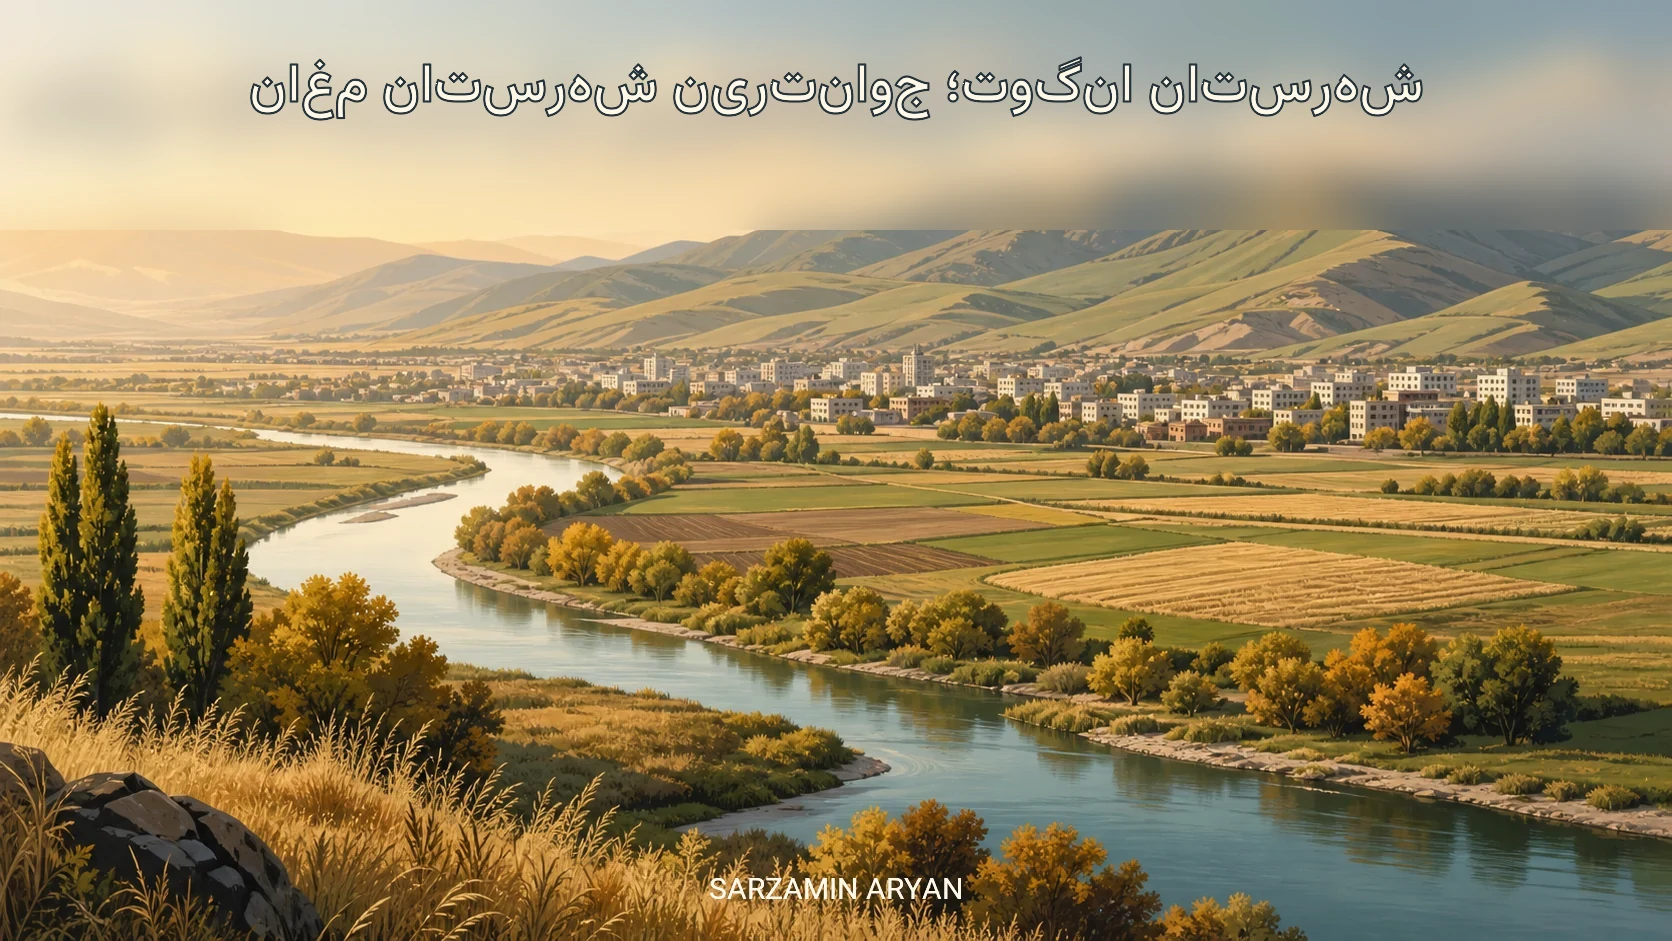
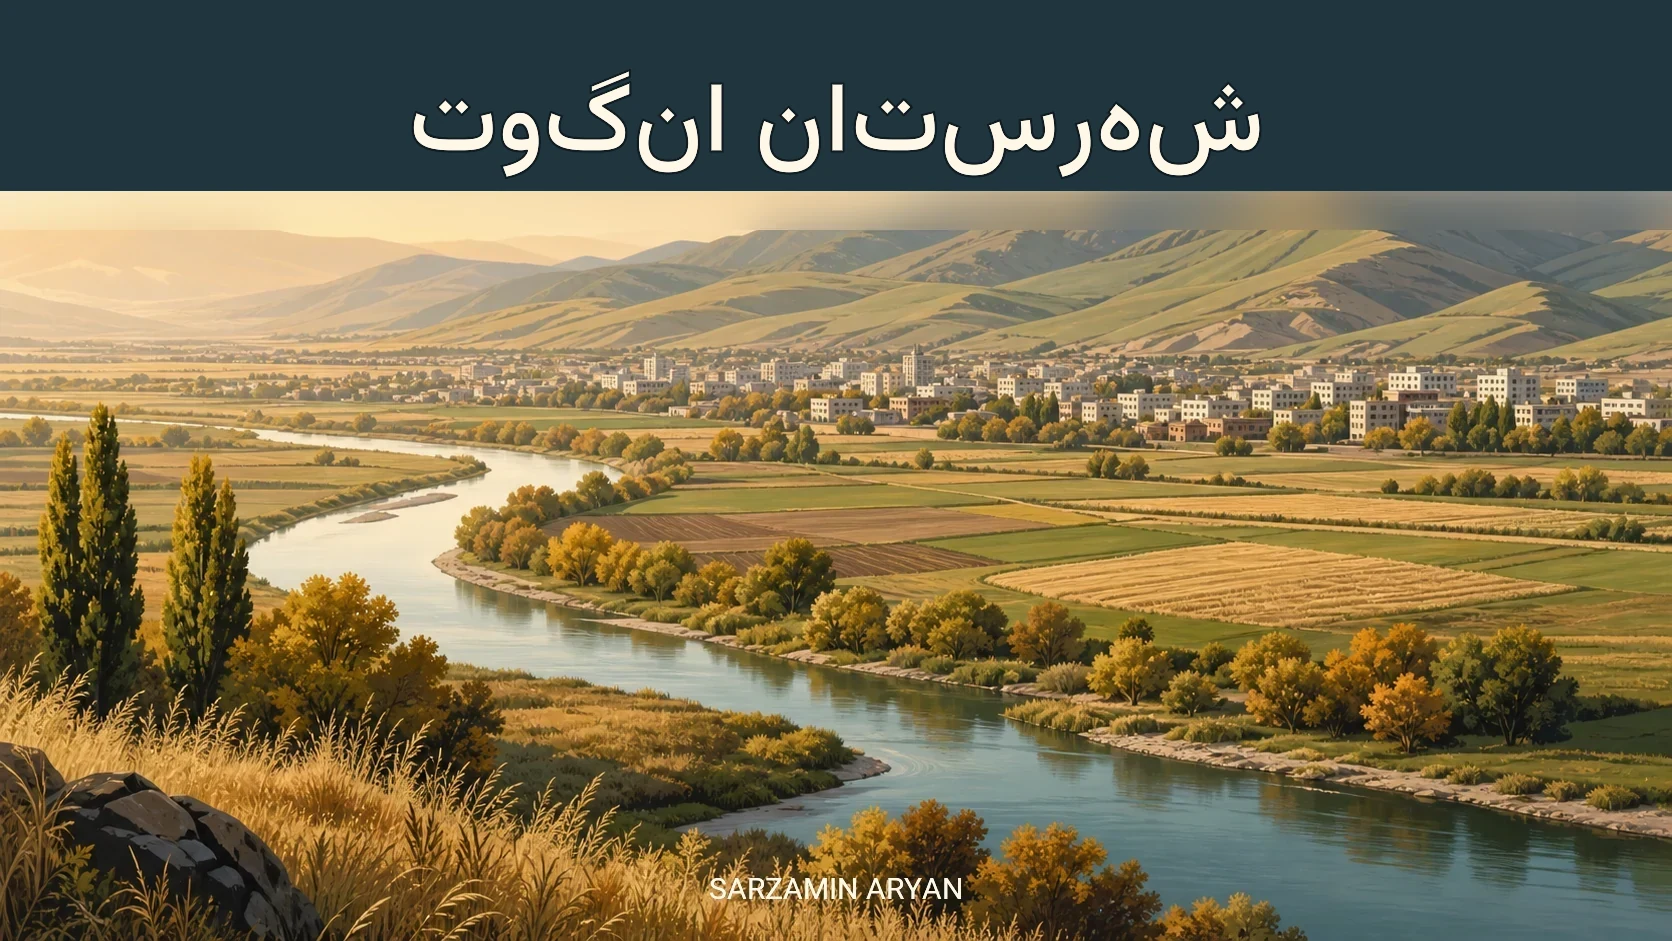
style(assets): center bold Persian county names

Changed region(s): [[0.0, 0.0, 1.0, 0.2157]]

diff --git a/content/cities/baruq.md b/content/cities/baruq.md
@@ -32,8 +32,8 @@ relations:
 === BLOCK 2: FEATURED IMAGE ===
 image_prompt: |
   تصویر گرافیکی سینمایی از شهرستان باروق: دشت سبز کشاورزی با جادهٔ کشیده در پیشزمینه، شهرکی کوچک با بازار کهن در میانهٔ کادر و تالابی پرندهخیز و کوههای دور در پسزمینه، نور بهاری ملایم، رنگهای سبز و آبی تالاب، حس جوانی و طبیعت مرتعی، بدون متن.
-overlay_text_fa: شهرستان باروق؛ جوانترین شهرستان استان
-overlay_text_en: Baruq County — The Province's Newest County
+overlay_text_fa: شهرستان باروق
+overlay_text_en: Baruq County
 alt: نمایی گرافیکی از شهرستان باروق با دشت کشاورزی، شهر کوچک و تالاب
 caption: دشتهای باروق در آستانهٔ تالاب نوروزلو.
 symbols_used: [دشت کشاورزی, تالاب, شهر کوچک]

diff --git a/content/cities/aslanduz.md b/content/cities/aslanduz.md
@@ -32,8 +32,8 @@ relations:
 === BLOCK 2: FEATURED IMAGE ===
 image_prompt: |
   تصویر گرافیکی سینمایی از شهرستان اصلاندوز: دشت مرزی مغان با الگوهای رنگی ورنی در پیشزمینه، شهری کوچک و بانشاط در میانهٔ کادر و رود مرزی و دشتهای پهناور تا افق در پسزمینه، نور عصر گرم، رنگهای زرشکی و طلایی، حس سرزمین دستبافت، بدون متن.
-overlay_text_fa: شهرستان اصلاندوز؛ سرزمین ورنی
-overlay_text_en: Aslan Duz County — Land of Verni
+overlay_text_fa: شهرستان اصلاندوز
+overlay_text_en: Aslan Duz County
 alt: نمایی گرافیکی از شهرستان اصلاندوز با دشت مغان، الگوی ورنی و شهر مرزی
 caption: دشت مرزی اصلاندوز در شمال استان اردبیل.
 symbols_used: [ورنی, دشت مرزی, شهر کوچک]

diff --git a/content/cities/angut.md b/content/cities/angut.md
@@ -32,8 +32,8 @@ relations:
 === BLOCK 2: FEATURED IMAGE ===
 image_prompt: |
   تصویر گرافیکی سینمایی از شهرستان انگوت: دشت و کوهپایههای خاکستری–سبز مغان با رودخانهٔ پیچان در پیشزمینه، شهری کوچک و تازهبنا در میانهٔ کادر و کوههای آرام در پسزمینه، نور پاییزی گرم، رنگهای خاکی و زرد، حس شهرستان جوان دشت، بدون متن.
-overlay_text_fa: شهرستان انگوت؛ جوانترین شهرستان مغان
-overlay_text_en: Angout County — Newest of Mughan
+overlay_text_fa: شهرستان انگوت
+overlay_text_en: Angout County
 alt: نمایی گرافیکی از شهرستان انگوت با دشت مغان، رود و شهر کوچک
 caption: دشت انگوت در غرب استان اردبیل.
 symbols_used: [دشت مغان, رود, شهر کوچک]
